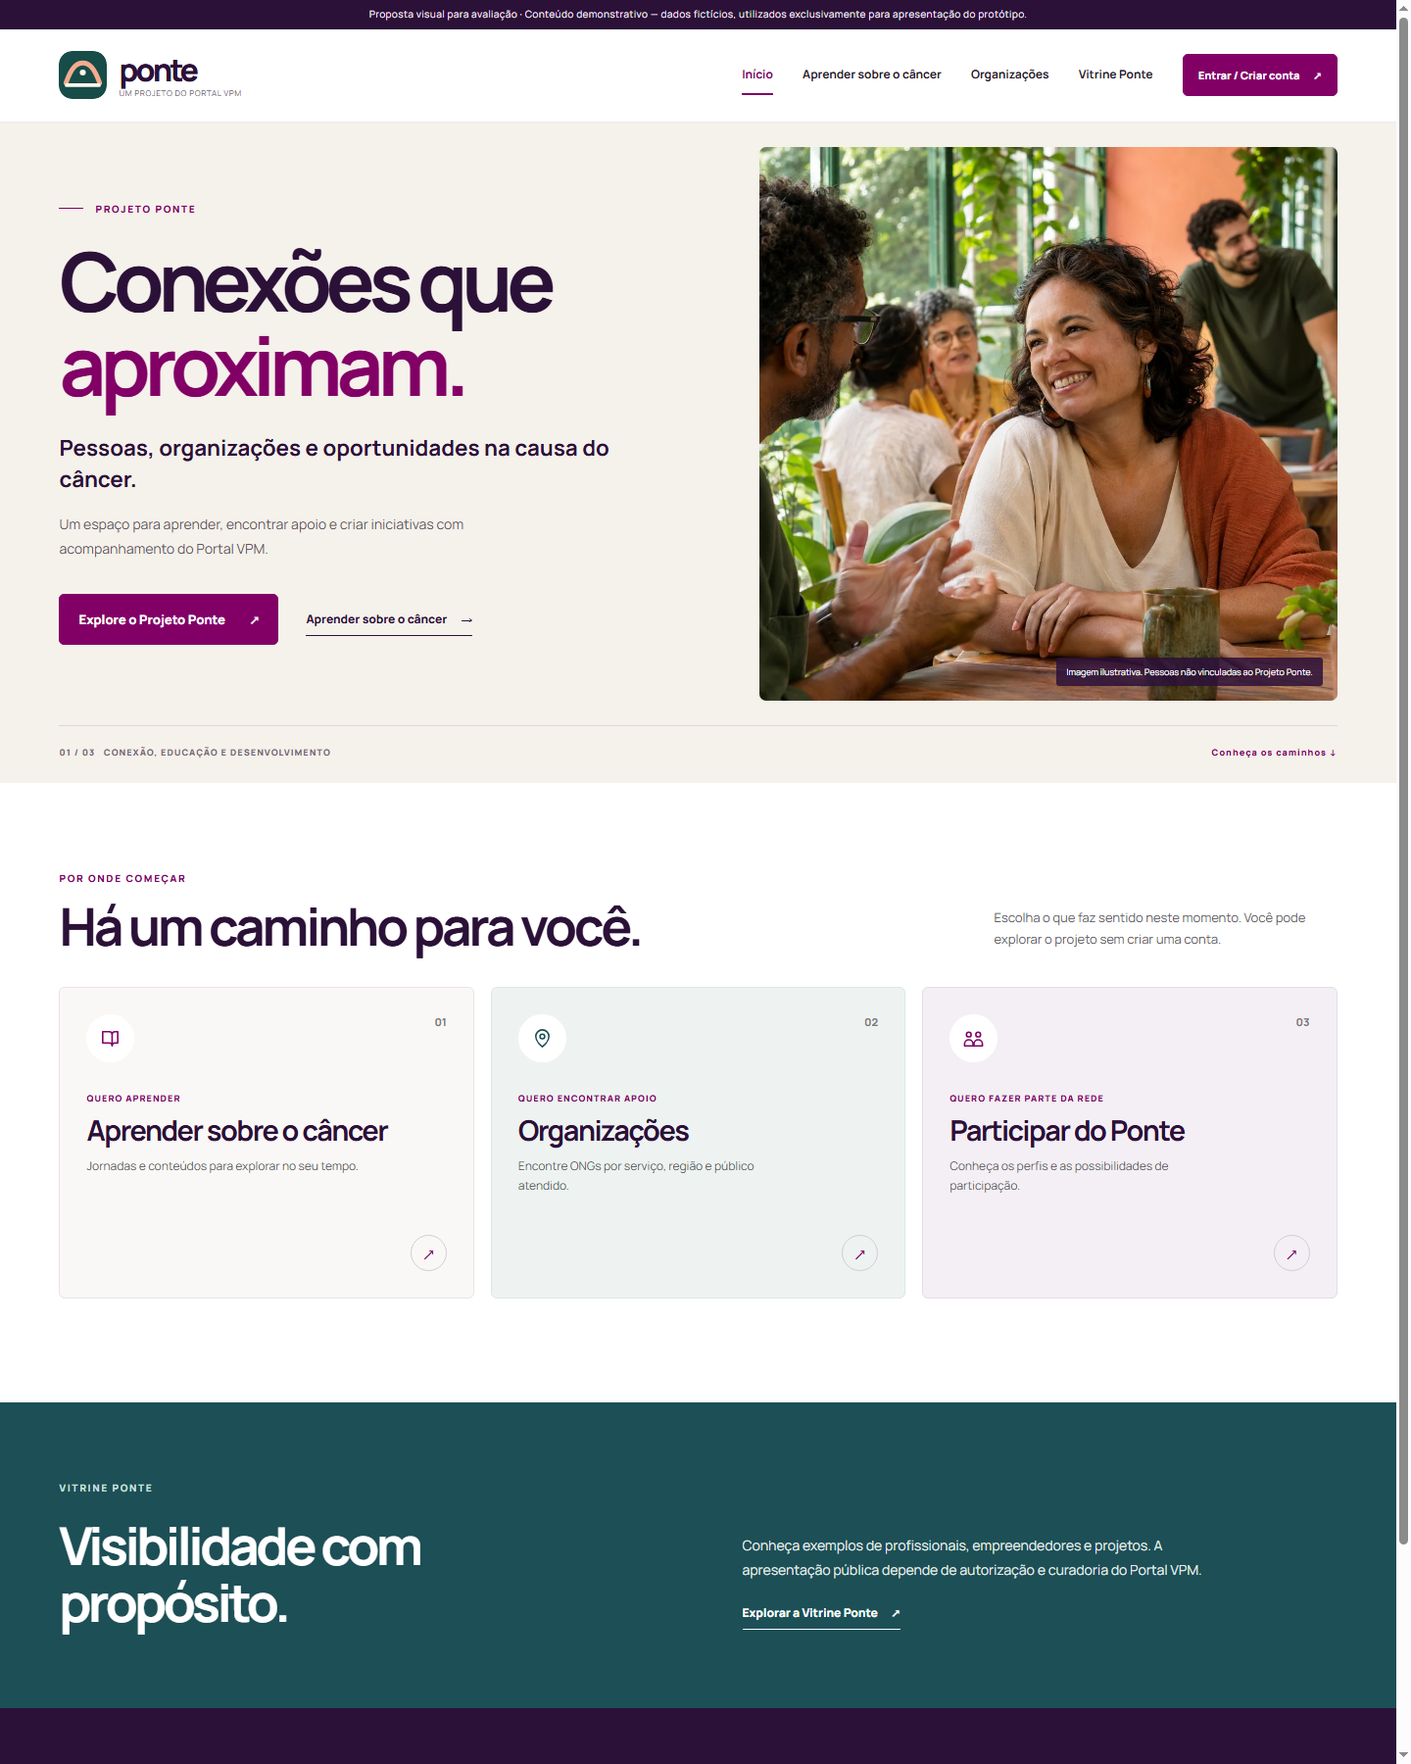
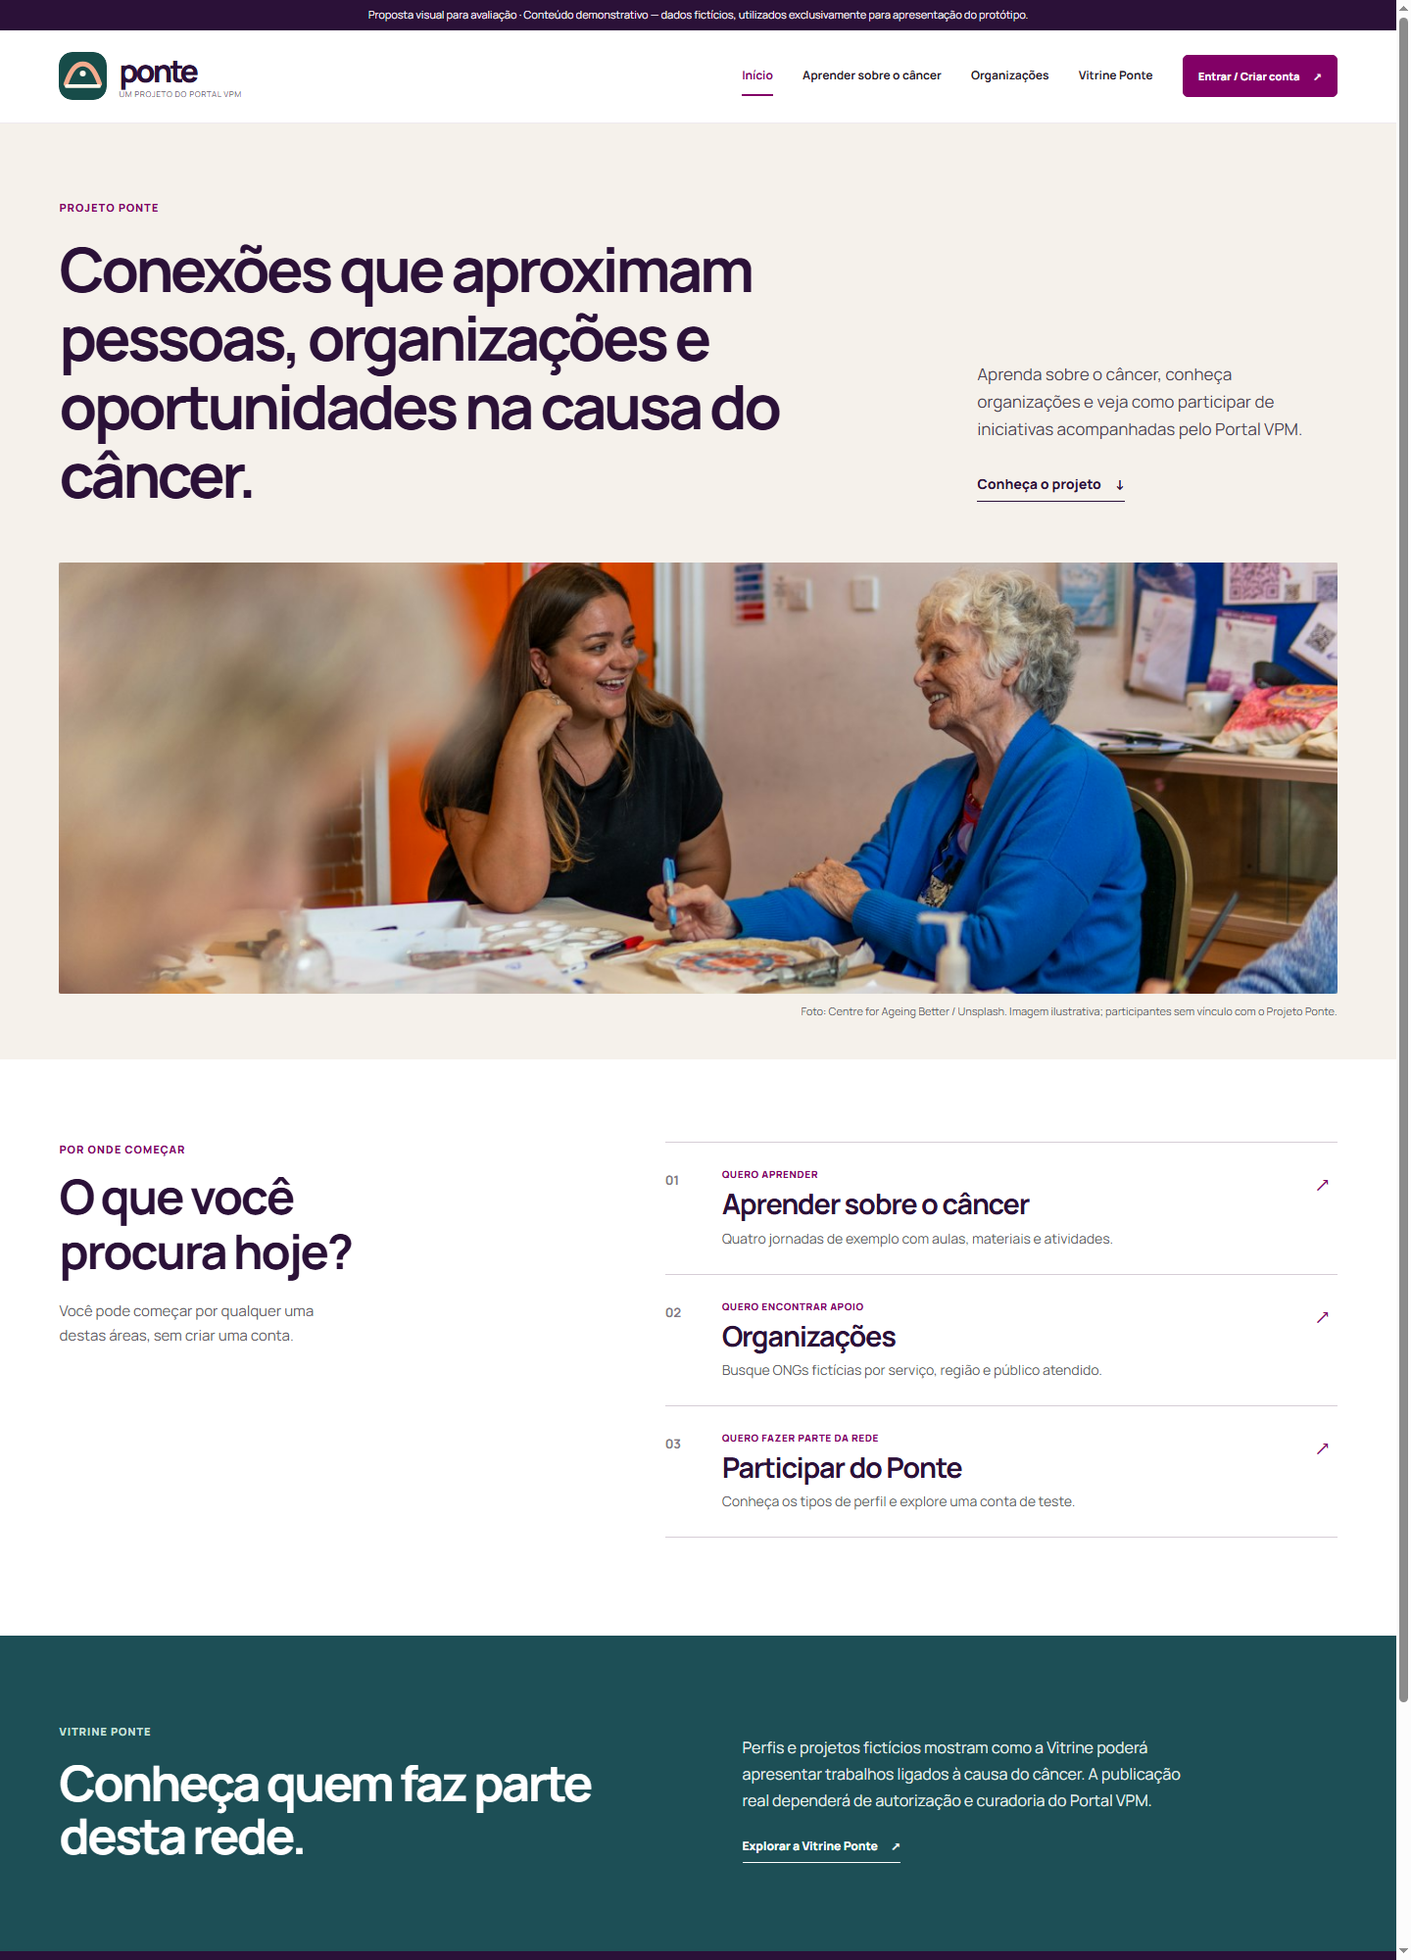
Humanizar proposta visual do Projeto Ponte

diff --git a/proposta-visual/index.html b/proposta-visual/index.html
@@ -5,6 +5,7 @@
   <title>Proposta visual · Início | Projeto Ponte</title>
   <link rel="icon" href="../assets/ponte-mark.svg" type="image/svg+xml">
   <link rel="stylesheet" href="design.css">
+  <link rel="stylesheet" href="human.css">
 </head>
 <body>
   <a class="skip-link" href="#conteudo">Pular para o conteúdo</a>
@@ -16,17 +17,17 @@
   </div></header>
   <main id="conteudo">
     <section class="hero"><div class="container hero-grid">
-      <div class="hero-copy"><p class="eyebrow"><span class="eyebrow-line"></span> PROJETO PONTE</p><h1>Conexões que <em>aproximam.</em></h1><p class="hero-lead">Pessoas, organizações e oportunidades na causa do câncer.</p><p class="hero-body">Um espaço para aprender, encontrar apoio e criar iniciativas com acompanhamento do Portal VPM.</p><div class="hero-actions"><a class="button" href="#caminhos">Explore o Projeto Ponte <span aria-hidden="true">↗</span></a><a class="text-action" href="../oncoflix.html">Aprender sobre o câncer <span aria-hidden="true">→</span></a></div></div>
-      <figure class="hero-image"><img src="../assets/ponte-editorial.webp" alt="Pessoas conversando em um ambiente comunitário acolhedor"><figcaption>Imagem ilustrativa. Pessoas não vinculadas ao Projeto Ponte.</figcaption></figure>
-    </div><div class="container hero-bottom"><span>01 / 03 &nbsp; CONEXÃO, EDUCAÇÃO E DESENVOLVIMENTO</span><span>Conheça os caminhos <span aria-hidden="true">↓</span></span></div></section>
-    <section class="entry-section" id="caminhos"><div class="container"><div class="section-heading"><div><p class="eyebrow">POR ONDE COMEÇAR</p><h2>Há um caminho para você.</h2></div><p>Escolha o que faz sentido neste momento. Você pode explorar o projeto sem criar uma conta.</p></div>
+      <div class="hero-copy"><p class="eyebrow">PROJETO PONTE</p><h1>Conexões que aproximam pessoas, organizações e oportunidades na causa do câncer.</h1><div class="hero-aside"><p>Aprenda sobre o câncer, conheça organizações e veja como participar de iniciativas acompanhadas pelo Portal VPM.</p><a class="text-action" href="#caminhos">Conheça o projeto <span aria-hidden="true">↓</span></a></div></div>
+      <figure class="hero-image"><img src="conversa-oficina.jpg" alt="Duas mulheres conversam durante uma oficina de arte"><figcaption>Foto: Centre for Ageing Better / Unsplash. Imagem ilustrativa; participantes sem vínculo com o Projeto Ponte.</figcaption></figure>
+    </div></section>
+    <section class="entry-section" id="caminhos"><div class="container"><div class="section-heading"><div><p class="eyebrow">POR ONDE COMEÇAR</p><h2>O que você procura hoje?</h2></div><p>Você pode começar por qualquer uma destas áreas, sem criar uma conta.</p></div>
       <div class="entry-grid">
-        <a class="entry-card" href="../oncoflix.html"><span class="entry-top"><span class="card-icon" aria-hidden="true"><svg viewBox="0 0 24 24"><path d="M4 5h7a3 3 0 0 1 3 3v12a3 3 0 0 0-3-3H4zM20 5h-3a3 3 0 0 0-3 3v12a3 3 0 0 1 3-3h3z"/></svg></span><span>01</span></span><span class="entry-content"><small>QUERO APRENDER</small><strong>Aprender sobre o câncer</strong><span>Jornadas e conteúdos para explorar no seu tempo.</span></span><span class="card-arrow" aria-hidden="true">↗</span></a>
-        <a class="entry-card" href="organizacoes.html"><span class="entry-top"><span class="card-icon" aria-hidden="true"><svg viewBox="0 0 24 24"><path d="M12 21s7-5.1 7-11a7 7 0 0 0-14 0c0 5.9 7 11 7 11z"/><circle cx="12" cy="10" r="2.5"/></svg></span><span>02</span></span><span class="entry-content"><small>QUERO ENCONTRAR APOIO</small><strong>Organizações</strong><span>Encontre ONGs por serviço, região e público atendido.</span></span><span class="card-arrow" aria-hidden="true">↗</span></a>
-        <a class="entry-card" href="../conta.html#cadastro"><span class="entry-top"><span class="card-icon" aria-hidden="true"><svg viewBox="0 0 24 24"><circle cx="7" cy="8" r="2.5"/><circle cx="17" cy="8" r="2.5"/><path d="M2.5 20v-2a4.5 4.5 0 0 1 9 0v2zM12.5 20v-2a4.5 4.5 0 0 1 9 0v2z"/></svg></span><span>03</span></span><span class="entry-content"><small>QUERO FAZER PARTE DA REDE</small><strong>Participar do Ponte</strong><span>Conheça os perfis e as possibilidades de participação.</span></span><span class="card-arrow" aria-hidden="true">↗</span></a>
+        <a class="entry-card" href="../oncoflix.html"><span class="entry-top">01</span><span class="entry-content"><small>QUERO APRENDER</small><strong>Aprender sobre o câncer</strong><span>Quatro jornadas de exemplo com aulas, materiais e atividades.</span></span><span class="card-arrow" aria-hidden="true">↗</span></a>
+        <a class="entry-card" href="organizacoes.html"><span class="entry-top">02</span><span class="entry-content"><small>QUERO ENCONTRAR APOIO</small><strong>Organizações</strong><span>Busque ONGs fictícias por serviço, região e público atendido.</span></span><span class="card-arrow" aria-hidden="true">↗</span></a>
+        <a class="entry-card" href="../conta.html#cadastro"><span class="entry-top">03</span><span class="entry-content"><small>QUERO FAZER PARTE DA REDE</small><strong>Participar do Ponte</strong><span>Conheça os tipos de perfil e explore uma conta de teste.</span></span><span class="card-arrow" aria-hidden="true">↗</span></a>
       </div>
     </div></section>
-    <section class="spotlight"><div class="container spotlight-grid"><div><p class="eyebrow">VITRINE PONTE</p><h2>Visibilidade com propósito.</h2></div><div><p>Conheça exemplos de profissionais, empreendedores e projetos. A apresentação pública depende de autorização e curadoria do Portal VPM.</p><a class="text-action" href="../vitrine.html">Explorar a Vitrine Ponte <span aria-hidden="true">↗</span></a></div></div></section>
+    <section class="spotlight"><div class="container spotlight-grid"><div><p class="eyebrow">VITRINE PONTE</p><h2>Conheça quem faz parte desta rede.</h2></div><div><p>Perfis e projetos fictícios mostram como a Vitrine poderá apresentar trabalhos ligados à causa do câncer. A publicação real dependerá de autorização e curadoria do Portal VPM.</p><a class="text-action" href="../vitrine.html">Explorar a Vitrine Ponte <span aria-hidden="true">↗</span></a></div></div></section>
   </main>
   <footer class="site-footer"><div class="container footer-grid"><div><a class="brand footer-brand" href="index.html"><img src="../assets/ponte-mark.svg" alt=""><span><strong>ponte</strong><small>um projeto do Portal VPM</small></span></a><p>Conexão, educação e desenvolvimento na causa do câncer.</p></div><nav aria-label="Explorar"><strong>Explore</strong><a href="../oncoflix.html">Aprender sobre o câncer</a><a href="organizacoes.html">Organizações</a><a href="../vitrine.html">Vitrine Ponte</a></nav><nav aria-label="Informações"><strong>Informações</strong><a href="../informacoes.html#privacidade">Privacidade</a><a href="../informacoes.html#termos">Termos de uso</a><a href="../informacoes.html#contato">Contato</a></nav><div class="vpm-sign"><img src="../assets/logo-vpm-roxo.png" alt="Portal VPM"></div></div><div class="container footer-base">Projeto Ponte · Portal VPM <span>Proposta visual · dados fictícios</span></div></footer>
   <script src="proposal.js"></script>

diff --git a/proposta-visual/human.css b/proposta-visual/human.css
@@ -1,0 +1,52 @@
+/* Revisão editorial: composição menos simétrica, texto mais legível, sem símbolos decorativos. */
+.demo-strip{letter-spacing:0;font-size:11px}
+.eyebrow{letter-spacing:.09em;font-size:11px;margin-bottom:18px}
+.hero-grid{display:block;min-height:0;padding-top:78px;padding-bottom:67px}
+.hero-copy{display:grid;grid-template-columns:minmax(0,1.4fr) minmax(260px,.6fr);column-gap:80px;row-gap:10px;align-items:end;padding:0 0 55px}
+.hero-copy .eyebrow{grid-column:1/-1;margin:0 0 10px}
+.hero h1{font-size:clamp(44px,4.35vw,70px);line-height:1.12;letter-spacing:-.055em;max-width:940px;margin:0;font-weight:700}
+.hero-aside{padding-bottom:7px}
+.hero-aside p{font-size:17px;line-height:1.65;color:#4d4552;margin:0 0 24px}
+.hero-aside .text-action{font-size:14px}
+.hero-image{height:440px;min-height:0;margin:0;overflow:visible;border-radius:0;background:#e5ddd5}
+.hero-image img{position:static;width:100%;height:100%;object-fit:cover;object-position:center 46%;border-radius:2px}
+.hero-image figcaption{position:static;background:none;color:#625a64;padding:10px 0 0;font-size:11px;text-align:right}
+.entry-section{padding:84px 0 100px}
+.entry-section>.container{display:grid;grid-template-columns:minmax(280px,.43fr) minmax(0,.57fr);gap:clamp(45px,7vw,120px)}
+.section-heading{display:block;margin:0}
+.section-heading h2{font-size:clamp(38px,3.4vw,54px);line-height:1.14;letter-spacing:-.045em;max-width:360px}
+.section-heading>p{font-size:15px;line-height:1.65;margin:21px 0 0;max-width:310px}
+.entry-grid{display:block;border-top:1px solid #d6cdd6}
+.entry-card,.entry-card:nth-child(2),.entry-card:nth-child(3){display:grid;grid-template-columns:38px minmax(0,1fr) 30px;gap:20px;align-items:start;min-height:0;padding:25px 0;background:transparent;border:0;border-bottom:1px solid #d6cdd6;border-radius:0;box-shadow:none;transition:background .2s}
+.entry-card:hover{transform:none;box-shadow:none;background:#f8f5f7}
+.entry-top{display:block;color:#837884;font-size:13px;font-weight:700;padding-top:4px}
+.entry-content{margin:0;padding:0;gap:7px}
+.entry-content small{font-size:10px;letter-spacing:.06em}
+.entry-content strong{font-size:clamp(22px,2vw,29px);letter-spacing:-.04em}
+.entry-content>span{font-size:14px;line-height:1.55;max-width:430px}
+.card-arrow{border:0;width:auto;height:auto;margin:1px 0 0;align-self:start;font-size:22px}
+.spotlight{padding:90px 0}
+.spotlight h2{font-size:clamp(38px,3.5vw,54px);letter-spacing:-.045em}
+.spotlight p:not(.eyebrow){font-size:16px;line-height:1.7}
+.directory-hero{padding:86px 0 108px}
+.directory-hero-grid{grid-template-columns:minmax(0,1.35fr) minmax(250px,.65fr);gap:clamp(40px,6vw,100px);align-items:end}
+.directory-hero h1{font-size:clamp(43px,4.2vw,66px);line-height:1.13;letter-spacing:-.05em;max-width:800px}
+.directory-hero p:not(.eyebrow){font-size:16px;line-height:1.68;max-width:700px}
+.directory-hero-note{border-left:2px solid #b5a5b7;padding:1px 0 2px 23px;margin:0 0 7px!important;font-size:14px!important;line-height:1.65!important;color:#5e5661!important}
+.search-panel{border:1px solid #ddd5dc;border-radius:3px;box-shadow:none;padding:34px 38px}
+.search-panel h2{font-size:30px}
+.search-panel-head>p{font-size:14px}
+.search-row label,.extra-fields label{font-size:12px}
+.search-row input,.search-row select,.extra-fields select{font-size:14px}
+.filter-heading strong{font-size:14px}.filter-heading span{font-size:12px}
+.service-categories button{font-size:12px;min-height:40px;padding:9px 13px}
+.more-filters summary,.clear-button{font-size:13px}
+.results-heading p{font-size:14px}
+.organization-card,.organization-empty{border-radius:3px;box-shadow:none;padding:27px}
+.organization-card .eyebrow{font-size:10px}
+.organization-card h3{font-size:23px}
+.organization-card>p,.organization-card dd,.organization-card>a{font-size:13px}
+.organization-card dt,.organization-card .demo-contact{font-size:11px}
+.results-note{font-size:13px}
+@media(max-width:900px){.hero-copy{grid-template-columns:1fr;row-gap:22px;padding-bottom:35px}.hero-copy .eyebrow{margin-bottom:0}.hero h1{max-width:800px}.hero-aside{max-width:590px}.hero-image{height:380px}.entry-section>.container{grid-template-columns:1fr;gap:30px}.section-heading h2{max-width:none}.section-heading>p{max-width:520px}.directory-hero-grid{grid-template-columns:1fr;gap:25px}.directory-hero-note{max-width:700px}}
+@media(max-width:600px){.hero-grid{padding-top:49px;padding-bottom:54px}.hero h1{font-size:clamp(34px,8vw,44px);line-height:1.16}.hero-aside p{font-size:15px}.hero-image{height:270px}.hero-image figcaption{text-align:left;font-size:10px}.entry-section{padding:60px 0 73px}.section-heading h2{font-size:37px}.section-heading>p{font-size:14px}.entry-card,.entry-card:nth-child(2),.entry-card:nth-child(3){grid-template-columns:24px minmax(0,1fr) 20px;gap:12px;padding:23px 0}.entry-content strong{font-size:21px}.entry-content>span{font-size:13px}.spotlight{padding:65px 0}.spotlight p:not(.eyebrow){font-size:14px}.directory-hero{padding:53px 0 93px}.directory-hero h1{font-size:43px}.directory-hero p:not(.eyebrow){font-size:14px}.directory-hero-note{font-size:13px!important}.search-panel{padding:24px 19px}.search-panel-head>p{font-size:13px}.organization-card{padding:21px}.organization-card h3{font-size:21px}}

diff --git a/proposta-visual/organizacoes.html b/proposta-visual/organizacoes.html
@@ -5,6 +5,7 @@
   <title>Proposta visual · Organizações | Projeto Ponte</title>
   <link rel="icon" href="../assets/ponte-mark.svg" type="image/svg+xml">
   <link rel="stylesheet" href="design.css">
+  <link rel="stylesheet" href="human.css">
   <script defer src="../public-data.js"></script><script defer src="../directory.js"></script><script defer src="proposal.js"></script>
 </head>
 <body>
@@ -16,7 +17,7 @@
     <nav class="main-nav" id="mainNav" aria-label="Navegação principal"><a href="index.html">Início</a><a href="../oncoflix.html">Aprender sobre o câncer</a><a class="current" href="organizacoes.html" aria-current="page">Organizações</a><a href="../vitrine.html">Vitrine Ponte</a><a class="button button-sm" href="../conta.html#entrar">Entrar / Criar conta <span aria-hidden="true">↗</span></a></nav>
   </div></header>
   <main id="conteudo">
-    <section class="directory-hero"><div class="container directory-hero-grid"><div><p class="eyebrow"><span class="eyebrow-line"></span> ENCONTRE APOIO</p><h1>Organizações para conhecer, caminhos para explorar.</h1><p>Pesquise por serviço, localização e público atendido. Os perfis abaixo são fictícios e mostram como a busca poderá funcionar.</p></div><div class="directory-hero-art" role="img" aria-label="Composição gráfica discreta de arcos que se encontram"><span class="art-orbit orbit-one"></span><span class="art-orbit orbit-two"></span><span class="art-dot"></span><strong>Pessoas e iniciativas mais próximas.</strong></div></div></section>
+    <section class="directory-hero"><div class="container directory-hero-grid"><div><p class="eyebrow">ORGANIZAÇÕES</p><h1>Encontre uma organização pelo apoio que procura.</h1><p>Escolha um serviço ou uma região para conhecer os perfis de demonstração. As organizações desta página são fictícias e não oferecem atendimento.</p></div><p class="directory-hero-note">A busca reúne apenas ONGs e instituições. O Portal VPM fará a curadoria dos cadastros reais antes de qualquer publicação.</p></div></section>
     <section class="directory-search" aria-labelledby="searchTitle"><div class="container"><div class="search-panel"><div class="search-panel-head"><div><p class="eyebrow">BUSCA DE DEMONSTRAÇÃO</p><h2 id="searchTitle">O que você procura?</h2></div><p>Comece pelo serviço ou escolha uma região. Todos os filtros são opcionais.</p></div>
       <div class="search-row"><label for="orgName">Nome da organização<input id="orgName" type="search" placeholder="Ex.: Instituto Horizonte"></label><label for="orgState">Estado<select id="orgState"><option value="">Todo o Brasil</option></select></label><label for="orgCity">Município<input id="orgCity" type="search" placeholder="Qualquer município"></label></div>
       <div class="filter-heading"><strong>Filtrar por serviço</strong><span>Selecione uma ou mais opções</span></div><div id="serviceCategories" class="service-categories" role="group" aria-label="Serviços de apoio oncológico"></div>

diff --git a/proposta-visual/DIRECAO.md b/proposta-visual/DIRECAO.md
@@ -4,16 +4,16 @@ Estas duas páginas são uma prévia isolada. A versão publicada e as demais á
 
 ## Linguagem
 
-- Conceito: sofisticação acolhedora, com composição editorial, bastante espaço em branco e informação objetiva.
+- Conceito: sofisticação acolhedora, com composição editorial, bastante espaço em branco e informação objetiva. A revisão evita três cards idênticos, símbolos decorativos grandes e frases genéricas.
 - Paleta: roxo profundo `#2B1138` como base institucional; verde petróleo `#1D4F56` para áreas de apoio; off-white `#F5F1EB` e branco `#FFFFFF` como superfícies; roxo acento `#820066` para ação e foco.
 - Tipografia: Manrope em pesos 400, 500, 600, 700 e 800. Uma única família evita conflito entre páginas e mantém legibilidade.
-- Fotografia: imagem editorial humana já presente no projeto, identificada como ilustrativa. Elementos gráficos ficam restritos a ícones lineares e uma composição discreta na página interna.
-- Componentes: cabeçalho e rodapé compartilhados, botões, cards, campos, filtros, etiquetas, estados vazios e avisos. A proposta usa cantos discretos, linhas finas e movimento sutil.
+- Fotografia: [registro documental de uma oficina comunitária](https://unsplash.com/photos/women-talking-at-art-class-table-8NDGA3RepNg) do Centre for Ageing Better, oferecido sob domínio público e licença Unsplash. A imagem é identificada como ilustrativa e as pessoas não são apresentadas como participantes do Projeto Ponte.
+- Componentes: cabeçalho e rodapé compartilhados, ações em texto, lista de caminhos, campos, filtros, etiquetas, estados vazios e avisos. A proposta usa linhas finas, superfícies simples e movimento sutil.
 - Acessibilidade: links para pular conteúdo, navegação por teclado, foco visível, rótulos de formulário, estados selecionados e redução de movimento quando solicitada pelo sistema.
 
 ## Amostras
 
-- `index.html`: hierarquia institucional, fotografia, três caminhos de entrada e Vitrine Ponte sem repetição do convite educativo.
+- `index.html`: chamada institucional completa, fotografia documental, três caminhos em lista editorial e Vitrine Ponte sem repetição do convite educativo.
 - `organizacoes.html`: busca em destaque, filtros funcionais com os mesmos dados fictícios atuais, cards institucionais e estado sem resultados.
 
 ## Aplicação após aprovação
